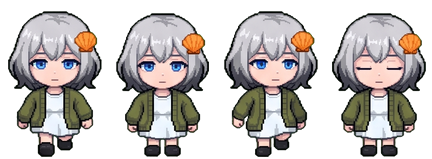
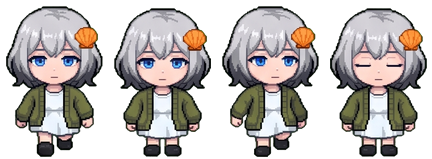
서하 걷기 크기를 같은 방향 정지 모습에 맞춤
정면 걷기는 머리 높이·폭, 옆 걷기는 키(머리 꼭대기~발) 기준으로 맞춰
걸을 때 작아지던 문제를 고침.

Claude-Session: https://claude.ai/code/session_01MBgVgKbFxkEXND4zuEcjdV

diff --git a/tools/sprite_cleanup/clean_chroma.py b/tools/sprite_cleanup/clean_chroma.py
@@ -201,7 +201,14 @@ def main(cfg_path, out_dir):
     for anim in pending:
         ref = anim["head_ref"]
         ref_h = np.median([hair_height(f) for f in raw[ref]])
-        factor[anim["name"]] = factor.get(ref, 1.0) * ref_h / np.median([hair_height(f) for f in raw[anim["name"]]])
+        k_h = ref_h / np.median([hair_height(f) for f in raw[anim["name"]]])
+        if anim.get("head_metric") == "both":   # 머리 높이와 폭 비율의 평균 (걷기처럼 같은 방향끼리 비교할 때)
+            ref_w = np.median([head_width(f) for f in raw[ref]])
+            k_w = ref_w / np.median([head_width(f) for f in raw[anim["name"]]])
+            k_h = float(np.sqrt(k_h * k_w))
+        elif anim.get("head_metric") == "stature":   # 같은 방향 정지 동작과 키(머리 꼭대기~발)를 맞춤
+            k_h = np.median([stature(f) for f in raw[ref]]) / np.median([stature(f) for f in raw[anim["name"]]])
+        factor[anim["name"]] = factor.get(ref, 1.0) * k_h
     scaled = {}
     for anim in cfg["animations"]:
         fr = raw[anim["name"]]
